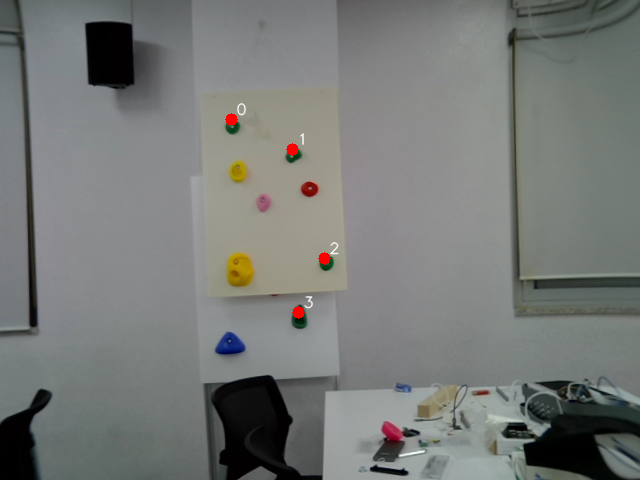
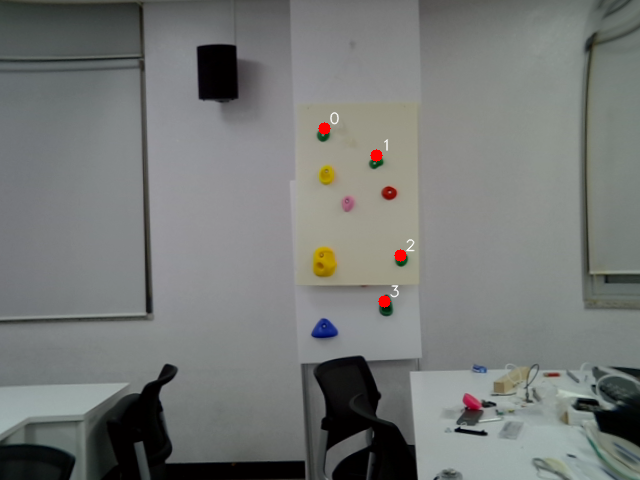
modify test_angle.py

diff --git a/test_angle.py b/test_angle.py
@@ -1,16 +1,17 @@
 import numpy as np
 
 # 레이저 원점 O
-O = np.array([-18.5, -80, -33], dtype=np.float64)
+O = np.array([18.5, -80, -33], dtype=np.float64)
 
 # Point 0
-point0 = np.array([-99.85, -523.38, 3161.27], dtype=np.float64)
+point0 = np.array([260.19, -566.05, 3660.13], dtype=np.float64)
 vec0 = point0 - O  # 레이저 좌표계로 변환
+print(f"vec0 is {vec0}")
 
 # Pitch (좌우, X/Z)
 pitch0 = np.degrees(np.arctan2(vec0[0], vec0[2]))
 
 # Yaw (위아래, Y/Z)
-yaw0 = np.degrees(np.arctan2(vec0[1], vec0[2]))
+yaw0 = np.degrees(np.arctan2(vec0[1], np.sqrt(vec0[0]**2 + vec0[2]**2)))
 
 print("Point 0 - Pitch:", pitch0, "Yaw:", yaw0)

diff --git a/JSH_Climbing.py b/JSH_Climbing.py
@@ -458,7 +458,7 @@ def main():
 
     # 레이저 원점 O (LEFT 기준)
     L = np.array([0.0, 0.0, 0.0], dtype=np.float64)
-    dx = -LASER_OFFSET_CM_LEFT * 10.0
+    dx = LASER_OFFSET_CM_LEFT * 10.0
     dy = (-1.0 if Y_UP_IS_NEGATIVE else 1.0) * LASER_OFFSET_CM_UP * 10.0
     dz = LASER_OFFSET_CM_FWD * 10.0
     O  = L + np.array([dx, dy, dz], dtype=np.float64)
